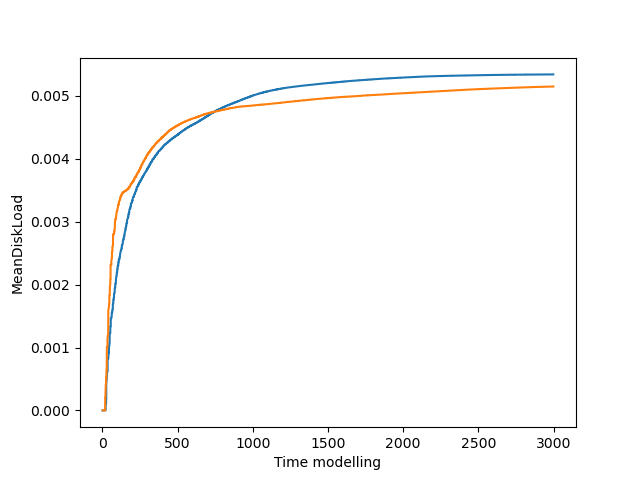
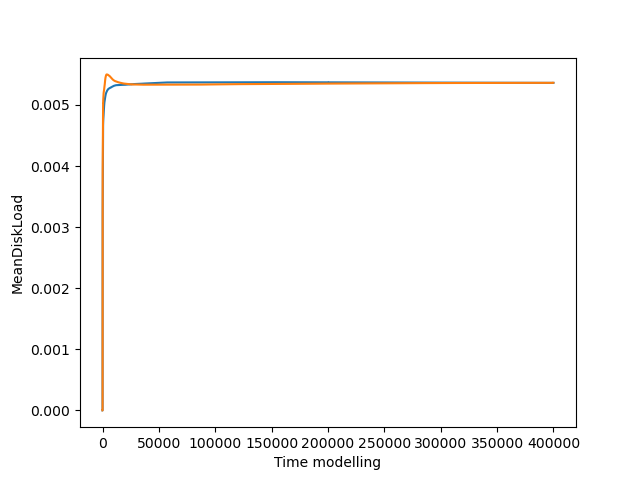
added csv data

diff --git a/petri-obj-paint/src/main/java/ua/stetsenkoinna/course_work/AnalyzeCourseWorkNet.java b/petri-obj-paint/src/main/java/ua/stetsenkoinna/course_work/AnalyzeCourseWorkNet.java
@@ -3,9 +3,10 @@ package ua.stetsenkoinna.course_work;
 import com.github.sh0nk.matplotlib4j.Plot;
 import com.github.sh0nk.matplotlib4j.PythonExecutionException;
 import com.github.sh0nk.matplotlib4j.builder.PlotBuilder;
-import lombok.Value;
 import ua.stetsenkoinna.PetriObj.ExceptionInvalidTimeDelay;
 
+import java.io.BufferedWriter;
+import java.io.FileWriter;
 import java.io.IOException;
 import java.util.*;
 import java.util.function.Consumer;
@@ -156,7 +157,7 @@ public class AnalyzeCourseWorkNet {
 
             IntStream.range(0, iterations).forEach(iteration -> {
                 final PropertyStats propertyStats = collectStats(
-                        3000,
+                        400000,
                         0,
                         131,
                         2,
@@ -165,48 +166,48 @@ public class AnalyzeCourseWorkNet {
                         60,
                         7
                 );
-//                diskLoadMat.add(calcMeanStdDevThroughTime(propertyStats.timePoint, propertyStats.diskLoad));
-//                ioChannelLoadMat.add(calcMeanStdDevThroughTime(propertyStats.timePoint, propertyStats.ioChannelLoad));
-//                processorsLoadMat.add(calcMeanStdDevThroughTime(propertyStats.timePoint, propertyStats.processorsLoad));
+                diskLoadMat.add(calcMeanStdDevThroughTime(propertyStats.timePoint, propertyStats.diskLoad));
+                ioChannelLoadMat.add(calcMeanStdDevThroughTime(propertyStats.timePoint, propertyStats.ioChannelLoad));
+                processorsLoadMat.add(calcMeanStdDevThroughTime(propertyStats.timePoint, propertyStats.processorsLoad));
                 useOfPageMat.add(calcMeanStdDevThroughTime(propertyStats.timePoint, propertyStats.useOfPage));
-//                totalWaitAllocateMat.add(calcMeanStdDevThroughTime(propertyStats.timePoint, propertyStats.totalWaitAllocate));
-//                meanTimeInSystem.add(calcMeanStdDevThroughTime(propertyStats.timeInSystem));
-//                waitAllocate.add(calcMeanStdDevThroughTime(propertyStats.timeWaitAllocate));
+                totalWaitAllocateMat.add(calcMeanStdDevThroughTime(propertyStats.timePoint, propertyStats.totalWaitAllocate));
+                meanTimeInSystem.add(calcMeanStdDevThroughTime(propertyStats.timeInSystem));
+                waitAllocate.add(calcMeanStdDevThroughTime(propertyStats.timeWaitAllocate));
                 propertyStats.timePoint.remove(propertyStats.timePoint.size() - 1);
                 timePointMat.add(propertyStats.timePoint);
-//                {
-//                    final List<Double> timeInSystemTimePoints = propertyStats.timeInSystem.stream()
-//                            .mapToDouble(v -> v.timePoint).boxed().collect(Collectors.toList());
-//                    timeInSystemTimePoints.remove(timeInSystemTimePoints.size() - 1);
-//                    meanTimeInSystemTimePointsMat.add(timeInSystemTimePoints);
-//                }
-//                {
-//                    final List<Double> waitAllocateTimePoints = propertyStats.timeWaitAllocate.stream()
-//                            .mapToDouble(v -> v.timePoint).boxed().collect(Collectors.toList());
-//                    waitAllocateTimePoints.remove(waitAllocateTimePoints.size() - 1);
-//                    waitAllocateTimePointsMat.add(waitAllocateTimePoints);
-//                }
+                {
+                    final List<Double> timeInSystemTimePoints = propertyStats.timeInSystem.stream()
+                            .mapToDouble(v -> v.timePoint).boxed().collect(Collectors.toList());
+                    timeInSystemTimePoints.remove(timeInSystemTimePoints.size() - 1);
+                    meanTimeInSystemTimePointsMat.add(timeInSystemTimePoints);
+                }
+                {
+                    final List<Double> waitAllocateTimePoints = propertyStats.timeWaitAllocate.stream()
+                            .mapToDouble(v -> v.timePoint).boxed().collect(Collectors.toList());
+                    waitAllocateTimePoints.remove(waitAllocateTimePoints.size() - 1);
+                    waitAllocateTimePointsMat.add(waitAllocateTimePoints);
+                }
             });
-//            plotTransitiveMeanPeriod(meanTimeInSystemTimePointsMat, meanTimeInSystem, "MeanTimeInSystem");
-//            plotTransitiveStdDevPeriod(meanTimeInSystemTimePointsMat, meanTimeInSystem, "StdDevTimeInSystem");
-//
-//            plotTransitiveMeanPeriod(waitAllocateTimePointsMat, waitAllocate, "MeanWaitAllocate");
-//            plotTransitiveStdDevPeriod(waitAllocateTimePointsMat, waitAllocate, "StdDevWaitAllocate");
+            plotTransitiveMeanPeriod(meanTimeInSystemTimePointsMat, meanTimeInSystem, "MeanTimeInSystem");
+            plotTransitiveStdDevPeriod(meanTimeInSystemTimePointsMat, meanTimeInSystem, "StdDevTimeInSystem");
 
-//            plotTransitiveMeanPeriod(timePointMat, diskLoadMat, "MeanDiskLoad");
-//            plotTransitiveStdDevPeriod(timePointMat, diskLoadMat, "StdDevDiskLoad");
+            plotTransitiveMeanPeriod(waitAllocateTimePointsMat, waitAllocate, "MeanWaitAllocate");
+            plotTransitiveStdDevPeriod(waitAllocateTimePointsMat, waitAllocate, "StdDevWaitAllocate");
 
-//            plotTransitiveMeanPeriod(timePointMat, ioChannelLoadMat, "MeanIoChannelLoad");
-//            plotTransitiveStdDevPeriod(timePointMat, ioChannelLoadMat, "StdDevIoChannelLoad");
+            plotTransitiveMeanPeriod(timePointMat, diskLoadMat, "MeanDiskLoad");
+            plotTransitiveStdDevPeriod(timePointMat, diskLoadMat, "StdDevDiskLoad");
 
-//            plotTransitiveMeanPeriod(timePointMat, processorsLoadMat, "MeanProcessorsLoad");
-//            plotTransitiveStdDevPeriod(timePointMat, processorsLoadMat, "StdDevProcessorsLoad");
+            plotTransitiveMeanPeriod(timePointMat, ioChannelLoadMat, "MeanIoChannelLoad");
+            plotTransitiveStdDevPeriod(timePointMat, ioChannelLoadMat, "StdDevIoChannelLoad");
+
+            plotTransitiveMeanPeriod(timePointMat, processorsLoadMat, "MeanProcessorsLoad");
+            plotTransitiveStdDevPeriod(timePointMat, processorsLoadMat, "StdDevProcessorsLoad");
 
             plotTransitiveMeanPeriod(timePointMat, useOfPageMat, "MeanUseOfPages");
             plotTransitiveStdDevPeriod(timePointMat, useOfPageMat, "StdDevUseOfPages");
 
-//            plotTransitiveMeanPeriod(timePointMat, totalWaitAllocateMat, "MeanTotalWaitAllocateTasks");
-//            plotTransitiveStdDevPeriod(timePointMat, totalWaitAllocateMat, "StdDevTotalWaitAllocateTasks");
+            plotTransitiveMeanPeriod(timePointMat, totalWaitAllocateMat, "MeanTotalWaitAllocateTasks");
+            plotTransitiveStdDevPeriod(timePointMat, totalWaitAllocateMat, "StdDevTotalWaitAllocateTasks");
         }
         static void plotTransitiveMeanPeriod(
                 final List<List<Double>> timePointMat,
@@ -245,57 +246,66 @@ public class AnalyzeCourseWorkNet {
         }
     }
 
-//    static class DetermineDistribution {
-//        public static void main(String[] args) throws ExceptionInvalidTimeDelay, PythonExecutionException, IOException {
-//
-//            final int pagesNum = 131;
-//            final CourseWorkNet courseWorkNet;
-//            try {
-//                courseWorkNet = new CourseWorkNet(pagesNum, 2, 4, 20, 60, 7);
-//            } catch (ExceptionInvalidTimeDelay e) {
-//                throw new RuntimeException(e);
-//            }
-//
-//            final CourseWorkPetriSim sim = new CourseWorkPetriSim(courseWorkNet.net);
-//            final Consumer<Double> trackStats = (currentTimeModelling) -> {};
-//
-//            final int timeModelling = 500000;
-//            final int transitivePeriod = 400000;
-//
-//            sim.go(timeModelling, trackStats);
-//
-//            final List<DiffTimePoint> diffTimePointsInSystem = new ArrayList<>();
-//            for(final CourseWorkNet.TaskObject taskObject : courseWorkNet.taskObjects) {
-//                updateDiffTimePointArray(
-//                        taskObject.io_channel_transfer.getOutMoments(),
-//                        taskObject.generate.getOutMoments(),
-//                        diffTimePointsInSystem
-//                );
-//            }
-//            final List<DiffTimePoint> filteredDiffTimePointsInSystem = diffTimePointsInSystem.stream()
-//                    .filter(v -> v.timePoint > transitivePeriod)
-//                    .sorted((first, second) -> Double.compare(first.timePoint, second.timePoint))
-//                    .collect(Collectors.toList());
-//
-//            final double mean = calculateAverage(
-//                    filteredDiffTimePointsInSystem.stream().map(v -> v.timePoint),
-//                    filteredDiffTimePointsInSystem.stream().map(v -> v.diff)
-//            );
-//
-//            final double stdDev = calculateStdDev(
-//                    filteredDiffTimePointsInSystem.stream().map(v -> v.timePoint),
-//                    filteredDiffTimePointsInSystem.stream().map(v -> v.diff),
-//                    mean
-//            );
-//
-//            final List<Double> data = filteredDiffTimePointsInSystem.stream()
-//                    .mapToDouble(v -> v.diff)
-//                    .boxed()
-//                    .collect(Collectors.toList());
-//
-//
-//        }
-//    }
+    static class DetermineDistribution {
+        public static void main(String[] args) throws ExceptionInvalidTimeDelay, PythonExecutionException, IOException {
+
+            final PropertyStats propertyStats = collectStats(
+                    500000,
+                    0,
+                    131,
+                    2,
+                    4,
+                    20,
+                    60,
+                    7
+            );
+
+            try (BufferedWriter writer = new BufferedWriter(new FileWriter("commonProps.csv"))) {
+                writer.write("timePoint"
+                        + "," + "diskLoad"
+                        + "," + "ioChannelLoad"
+                        + "," + "processorsLoad"
+                        + "," + "totalWaitAllocate"
+                        + "," + "useOfPage"
+                );
+                writer.newLine();
+                for(int i = 0; i < propertyStats.timePoint.size(); i++) {
+                    writer.write(propertyStats.timePoint.get(i)
+                            + "," + propertyStats.diskLoad.get(i)
+                            + "," + propertyStats.ioChannelLoad.get(i)
+                            + "," + propertyStats.processorsLoad.get(i)
+                            + "," + propertyStats.totalWaitAllocate.get(i)
+                            + "," + propertyStats.useOfPage.get(i)
+                    );
+                    writer.newLine();
+                }
+            } catch (IOException e) {
+                System.err.println("Error writing to file: " + e.getMessage());
+            }
+
+            try (BufferedWriter writer = new BufferedWriter(new FileWriter("timeInSystem.csv"))) {
+                writer.write("timePoint,value");
+                writer.newLine();
+                for(final DiffTimePoint diffTimePoint : propertyStats.timeInSystem) {
+                    writer.write(diffTimePoint.timePoint + "," + diffTimePoint.diff);
+                    writer.newLine();
+                }
+            } catch (IOException e) {
+                System.err.println("Error writing to file: " + e.getMessage());
+            }
+
+            try (BufferedWriter writer = new BufferedWriter(new FileWriter("waitAllocate.csv"))) {
+                writer.write("timePoint,value");
+                writer.newLine();
+                for(final DiffTimePoint diffTimePoint : propertyStats.timeWaitAllocate) {
+                    writer.write(diffTimePoint.timePoint + "," + diffTimePoint.diff);
+                    writer.newLine();
+                }
+            } catch (IOException e) {
+                System.err.println("Error writing to file: " + e.getMessage());
+            }
+        }
+    }
 
     static void updateDiffTimePointArray(
             final double collectStatsStartingAtTimePoint,
